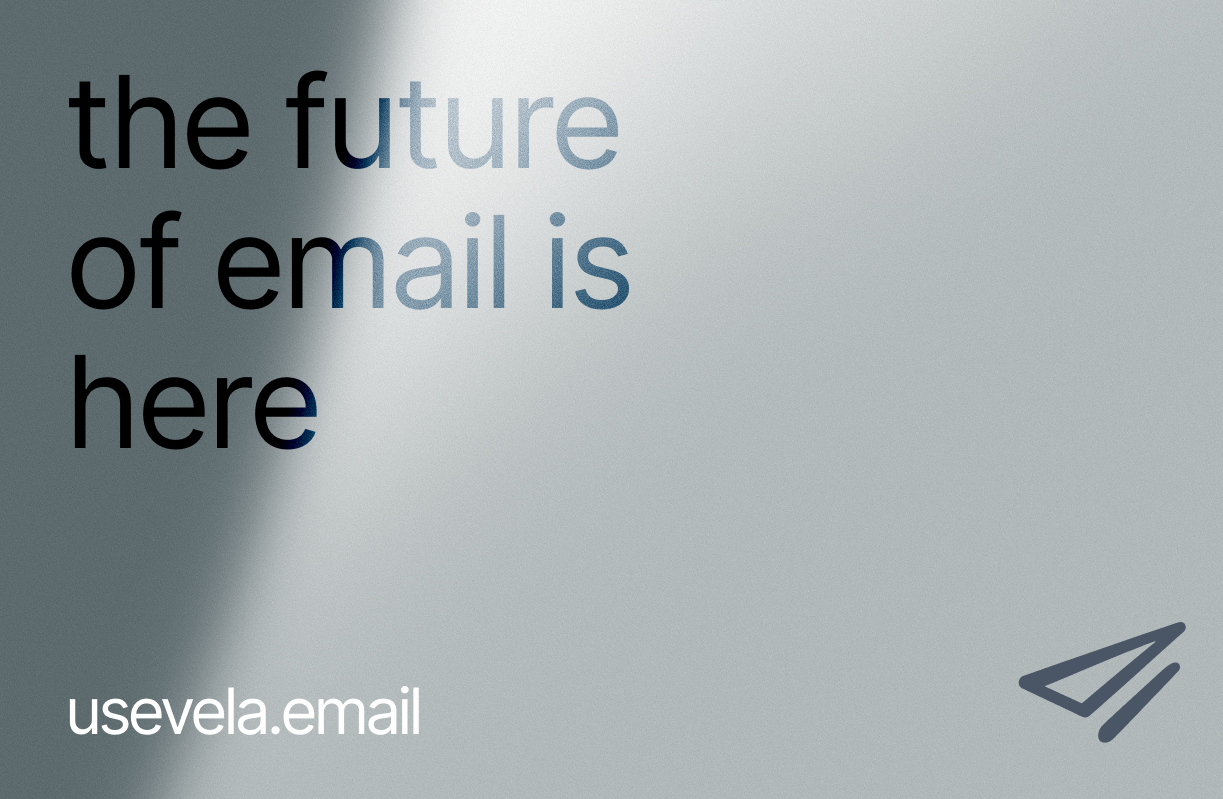
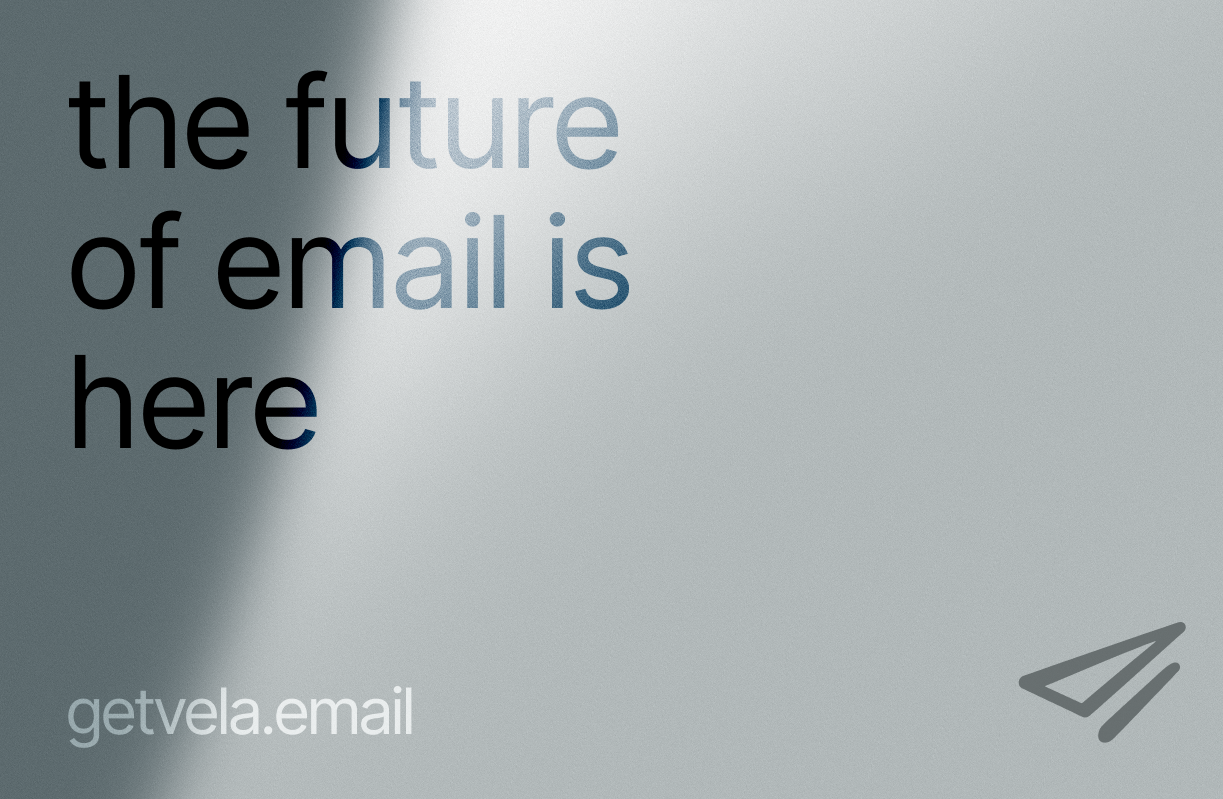
Update landing page aesthetic to metallic light theme to match new OG image

Changed region(s): [[0.0311, 0.8411, 0.3418, 0.9312], [0.8389, 0.781, 0.9632, 0.9312]]

diff --git a/src/app/page.js b/src/app/page.js
@@ -42,108 +42,102 @@ export default function LandingPage() {
   const ctaText = !loading && user ? "Open Inbox" : "Get Started";
 
   return (
-    <div className="min-h-screen bg-[#2b323b] text-white font-[Inter] selection:bg-[#50686c] selection:text-white overflow-x-hidden">
+    <div className="min-h-screen bg-gradient-to-br from-[#f2f4f5] via-[#e5e7e9] to-[#cfd3d6] text-[#1e2a3b] font-[Inter] selection:bg-[#5a768c] selection:text-white overflow-x-hidden relative">
       
       {/* Navbar */}
       <MarketingNavbar />
 
       {/* Hero Section */}
       <section ref={heroRef} className="relative min-h-screen flex flex-col justify-center px-6 max-w-6xl mx-auto">
-        {/* Dynamic gradient that follows mouse */}
+        
+        {/* Dynamic dramatic lighting background */}
         <div className="absolute inset-0 overflow-hidden pointer-events-none -z-10">
+          <div className="absolute top-0 bottom-0 left-[10%] w-[30%] bg-gradient-to-r from-black/[0.12] to-transparent blur-[60px] transform -skew-x-[20deg] origin-top"></div>
+          <div className="absolute top-0 bottom-0 left-[25%] w-[15%] bg-gradient-to-r from-white/60 to-transparent blur-[40px] transform -skew-x-[20deg] origin-top"></div>
+          <div className="absolute top-[-20%] right-[-10%] w-[600px] h-[600px] rounded-full bg-white/40 blur-[120px]"></div>
+          
+          {/* Subtle cursor tracking orb */}
           <div
-            className="absolute w-[600px] h-[600px] rounded-full transition-all duration-[2000ms] ease-out opacity-20"
+            className="absolute w-[600px] h-[600px] rounded-full transition-all duration-[2000ms] ease-out opacity-40 mix-blend-overlay"
             style={{
               left: `${mousePos.x}%`,
               top: `${mousePos.y}%`,
               transform: "translate(-50%, -50%)",
-              background: "radial-gradient(circle, #50686c 0%, transparent 70%)"
+              background: "radial-gradient(circle, #ffffff 0%, transparent 70%)"
             }}
           ></div>
-          <div className="absolute top-[-15%] left-[-5%] w-[40%] h-[40%] rounded-full bg-[#50686c]/15 blur-[120px]"></div>
-          <div className="absolute bottom-[-10%] right-[-5%] w-[35%] h-[35%] rounded-full bg-[#50686c]/10 blur-[120px]"></div>
-          {/* Grid overlay */}
-          <div className="absolute inset-0 bg-[linear-gradient(rgba(255,255,255,0.02)_1px,transparent_1px),linear-gradient(90deg,rgba(255,255,255,0.02)_1px,transparent_1px)] bg-[size:60px_60px] [mask-image:radial-gradient(ellipse_at_50%_50%,black_20%,transparent_70%)]"></div>
         </div>
 
-        <div className="max-w-3xl pt-20">
-          <div className="inline-flex items-center gap-2 px-3.5 py-1.5 rounded-full bg-white/[0.06] border border-white/[0.08] text-xs font-medium text-gray-400 mb-10 animate-fade-in-up backdrop-blur-md">
-            <div className="h-1.5 w-1.5 rounded-full bg-emerald-400 animate-pulse"></div>
-            Now in Beta
-          </div>
+        <div className="max-w-4xl pt-20 relative z-10">
           
-          <h1 className="text-5xl md:text-[5.5rem] font-medium tracking-[-0.03em] text-white leading-[1.05] mb-6 animate-fade-in-up" style={{ animationDelay: '0.1s' }}>
-            The next generation<br />AI email client is here.
+          <h1 className="text-6xl md:text-[8rem] font-medium tracking-[-0.04em] text-[#1e2a3b] leading-[0.95] mb-8 animate-fade-in-up" style={{ animationDelay: '0.1s' }}>
+            the <span className="text-transparent bg-clip-text bg-gradient-to-br from-[#1e2a3b] to-[#7f99b0]">future</span><br />
+            of email <span className="text-transparent bg-clip-text bg-gradient-to-br from-[#1e2a3b] to-[#7f99b0]">is</span><br />
+            here
           </h1>
           
-          <p className="text-lg md:text-xl text-gray-400 max-w-lg leading-relaxed mb-10 animate-fade-in-up font-light" style={{ animationDelay: '0.15s' }}>
-            Vela is the ultimate AI email client spearheading UI and AI in email. Experience the fastest email workflow, built for speed, clarity, and deep focus. Fly through your inbox and reclaim hours of your week.
+          <p className="text-lg md:text-xl text-[#1e2a3b]/60 max-w-lg leading-relaxed mb-10 animate-fade-in-up font-light" style={{ animationDelay: '0.15s' }}>
+            Vela is the ultimate AI email client spearheading UI and AI in email. Experience the fastest email workflow, built for speed, clarity, and deep focus.
           </p>
           
           <div className="flex flex-wrap items-center gap-4 animate-fade-in-up" style={{ animationDelay: '0.2s' }}>
-            <Link href={ctaLink} className="group inline-flex items-center gap-2 text-sm font-medium bg-white text-[#2b323b] px-7 py-3.5 rounded-full hover:bg-gray-100 transition-all duration-200 shadow-lg shadow-black/20">
+            <Link href={ctaLink} className="group inline-flex items-center gap-2 text-sm font-medium bg-[#1e2a3b] text-white px-8 py-4 rounded-full hover:bg-[#2a3a4c] transition-all duration-200 shadow-xl shadow-black/10">
               {ctaText} <ArrowRight size={16} className="group-hover:translate-x-0.5 transition-transform" />
             </Link>
-            <span className="text-xs text-gray-500 font-medium">Free during beta</span>
+            <span className="text-xs text-[#1e2a3b]/50 font-medium">Free during beta</span>
           </div>
         </div>
 
-        {/* Scroll Indicator */}
-        <div className="absolute bottom-10 left-1/2 -translate-x-1/2 flex flex-col items-center gap-2 animate-fade-in-up" style={{ animationDelay: '0.6s' }}>
-          <div className="w-5 h-8 rounded-full border border-white/20 flex justify-center pt-1.5">
-            <div className="w-1 h-2 rounded-full bg-white/40 animate-bounce"></div>
-          </div>
-        </div>
       </section>
 
       {/* Bento Grid Features */}
-      <section className="px-6 pb-32 max-w-5xl mx-auto">
+      <section className="px-6 pb-32 max-w-5xl mx-auto relative z-10">
         <div className="text-center mb-16">
-          <h2 className="text-3xl md:text-4xl font-medium tracking-tight text-white mb-4">Everything you need, nothing you don't.</h2>
-          <p className="text-gray-400 max-w-lg mx-auto text-sm leading-relaxed">Built from the ground up with a focus on speed, keyboard navigation, and AI intelligence.</p>
+          <h2 className="text-3xl md:text-4xl font-medium tracking-tight text-[#1e2a3b] mb-4">Everything you need, nothing you don't.</h2>
+          <p className="text-[#1e2a3b]/60 max-w-lg mx-auto text-sm leading-relaxed">Built from the ground up with a focus on speed, keyboard navigation, and AI intelligence.</p>
         </div>
 
         <div className="grid grid-cols-1 md:grid-cols-2 gap-4">
           {/* Feature 1: Speed - Large Card */}
-          <div className="group relative rounded-2xl bg-white/[0.03] border border-white/[0.06] p-8 overflow-hidden hover:border-white/[0.12] transition-all duration-500 md:row-span-2">
-            <div className="absolute inset-0 bg-gradient-to-br from-[#50686c]/10 to-transparent opacity-0 group-hover:opacity-100 transition-opacity duration-500"></div>
+          <div className="group relative rounded-3xl bg-white/40 border border-white/60 p-8 overflow-hidden hover:bg-white/60 hover:shadow-xl hover:shadow-black/5 transition-all duration-500 md:row-span-2 backdrop-blur-xl">
+            <div className="absolute inset-0 bg-gradient-to-br from-white/20 to-transparent opacity-0 group-hover:opacity-100 transition-opacity duration-500"></div>
             <div className="relative z-10 h-full flex flex-col">
               <div className="flex items-center gap-2 mb-4">
-                <div className="h-8 w-8 rounded-lg bg-yellow-500/10 flex items-center justify-center">
-                  <Lightning size={18} weight="fill" className="text-yellow-500" />
+                <div className="h-8 w-8 rounded-lg bg-yellow-500/20 flex items-center justify-center">
+                  <Lightning size={18} weight="fill" className="text-yellow-600" />
                 </div>
               </div>
-              <h3 className="text-lg font-medium text-white mb-2">Blazing Fast</h3>
-              <p className="text-sm text-gray-400 leading-relaxed mb-8">Built on a modern stack. Every interaction is instantaneous — no loading spinners, no waiting.</p>
+              <h3 className="text-lg font-medium text-[#1e2a3b] mb-2">Blazing Fast</h3>
+              <p className="text-sm text-[#1e2a3b]/60 leading-relaxed mb-8">Built on a modern stack. Every interaction is instantaneous — no loading spinners, no waiting.</p>
               
               {/* Speed Visual */}
               <div className="flex-1 flex items-center justify-center">
                 <div className="relative">
-                  <div className="text-6xl font-mono font-light text-white/10 group-hover:text-white/20 transition-colors duration-500">
-                    0<span className="text-[#50686c]">ms</span>
+                  <div className="text-6xl font-mono font-light text-[#1e2a3b]/10 group-hover:text-[#1e2a3b]/20 transition-colors duration-500">
+                    0<span className="text-[#5a768c]">ms</span>
                   </div>
-                  <div className="absolute -bottom-6 left-0 right-0 text-center text-xs text-gray-600 font-mono">perceived latency</div>
+                  <div className="absolute -bottom-6 left-0 right-0 text-center text-xs text-[#1e2a3b]/40 font-mono">perceived latency</div>
                 </div>
               </div>
             </div>
           </div>
 
           {/* Feature 2: Keyboard */}
-          <div className="group relative rounded-2xl bg-white/[0.03] border border-white/[0.06] p-8 overflow-hidden hover:border-white/[0.12] transition-all duration-500">
-            <div className="absolute inset-0 bg-gradient-to-br from-[#50686c]/10 to-transparent opacity-0 group-hover:opacity-100 transition-opacity duration-500"></div>
+          <div className="group relative rounded-3xl bg-white/40 border border-white/60 p-8 overflow-hidden hover:bg-white/60 hover:shadow-xl hover:shadow-black/5 transition-all duration-500 backdrop-blur-xl">
+            <div className="absolute inset-0 bg-gradient-to-br from-white/20 to-transparent opacity-0 group-hover:opacity-100 transition-opacity duration-500"></div>
             <div className="relative z-10">
               <div className="flex items-center gap-2 mb-4">
-                <div className="h-8 w-8 rounded-lg bg-blue-500/10 flex items-center justify-center">
-                  <Command size={18} weight="bold" className="text-blue-400" />
+                <div className="h-8 w-8 rounded-lg bg-blue-500/20 flex items-center justify-center">
+                  <Command size={18} weight="bold" className="text-blue-600" />
                 </div>
               </div>
-              <h3 className="text-lg font-medium text-white mb-2">Keyboard First</h3>
-              <p className="text-sm text-gray-400 leading-relaxed mb-6">Navigate your entire inbox without ever touching your mouse. Every action has a shortcut.</p>
+              <h3 className="text-lg font-medium text-[#1e2a3b] mb-2">Keyboard First</h3>
+              <p className="text-sm text-[#1e2a3b]/60 leading-relaxed mb-6">Navigate your entire inbox without ever touching your mouse. Every action has a shortcut.</p>
               
               {/* Keyboard Keys Visual */}
               <div className="flex items-center gap-1.5 justify-center">
                 {['J', 'K', 'E', 'R', '#'].map((key) => (
-                  <div key={key} className="h-9 w-9 rounded-lg bg-white/[0.06] border border-white/[0.1] flex items-center justify-center text-xs font-mono text-gray-400 group-hover:border-white/[0.16] transition-all duration-300">
+                  <div key={key} className="h-9 w-9 rounded-lg bg-white/50 border border-white/80 flex items-center justify-center text-xs font-mono text-[#1e2a3b]/60 group-hover:border-white transition-all duration-300 shadow-sm">
                     {key}
                   </div>
                 ))}
@@ -152,125 +146,38 @@ export default function LandingPage() {
           </div>
 
           {/* Feature 3: AI */}
-          <div className="group relative rounded-2xl bg-white/[0.03] border border-white/[0.06] p-8 overflow-hidden hover:border-white/[0.12] transition-all duration-500">
-            <div className="absolute inset-0 bg-gradient-to-br from-purple-500/5 to-transparent opacity-0 group-hover:opacity-100 transition-opacity duration-500"></div>
+          <div className="group relative rounded-3xl bg-white/40 border border-white/60 p-8 overflow-hidden hover:bg-white/60 hover:shadow-xl hover:shadow-black/5 transition-all duration-500 backdrop-blur-xl">
+            <div className="absolute inset-0 bg-gradient-to-br from-purple-500/10 to-transparent opacity-0 group-hover:opacity-100 transition-opacity duration-500"></div>
             <div className="relative z-10">
               <div className="flex items-center gap-2 mb-4">
-                <div className="h-8 w-8 rounded-lg bg-purple-500/10 flex items-center justify-center">
-                  <Sparkle size={18} weight="fill" className="text-purple-400" />
+                <div className="h-8 w-8 rounded-lg bg-purple-500/20 flex items-center justify-center">
+                  <Sparkle size={18} weight="fill" className="text-purple-600" />
                 </div>
               </div>
-              <h3 className="text-lg font-medium text-white mb-2">AI Intelligence</h3>
-              <p className="text-sm text-gray-400 leading-relaxed mb-6">Instantly extract the core message from long threads. Draft replies in seconds with context-aware AI.</p>
+              <h3 className="text-lg font-medium text-[#1e2a3b] mb-2">AI Intelligence</h3>
+              <p className="text-sm text-[#1e2a3b]/60 leading-relaxed mb-6">Instantly extract the core message from long threads. Draft replies in seconds with context-aware AI.</p>
               
               {/* AI Visual */}
-              <div className="flex items-center gap-3 px-4 py-3 rounded-xl bg-white/[0.04] border border-white/[0.06]">
-                <Sparkle size={16} weight="fill" className="text-purple-400 shrink-0" />
+              <div className="flex items-center gap-3 px-4 py-3 rounded-xl bg-white/50 border border-white/80 shadow-sm">
+                <Sparkle size={16} weight="fill" className="text-purple-600 shrink-0" />
                 <div className="flex flex-col gap-1.5 flex-1">
-                  <div className="h-1.5 w-full bg-white/10 rounded-full"></div>
-                  <div className="h-1.5 w-3/4 bg-white/10 rounded-full"></div>
+                  <div className="h-1.5 w-full bg-[#1e2a3b]/10 rounded-full"></div>
+                  <div className="h-1.5 w-3/4 bg-[#1e2a3b]/10 rounded-full"></div>
                 </div>
               </div>
-            </div>
-          </div>
-
-          {/* Feature 4: Search */}
-          <div className="group relative rounded-2xl bg-white/[0.03] border border-white/[0.06] p-8 overflow-hidden hover:border-white/[0.12] transition-all duration-500">
-            <div className="absolute inset-0 bg-gradient-to-br from-[#50686c]/10 to-transparent opacity-0 group-hover:opacity-100 transition-opacity duration-500"></div>
-            <div className="relative z-10">
-              <div className="flex items-center gap-2 mb-4">
-                <div className="h-8 w-8 rounded-lg bg-emerald-500/10 flex items-center justify-center">
-                  <MagnifyingGlass size={18} weight="bold" className="text-emerald-400" />
-                </div>
-              </div>
-              <h3 className="text-lg font-medium text-white mb-2">Deep Search</h3>
-              <p className="text-sm text-gray-400 leading-relaxed mb-6">Find exactly what you're looking for instantly. Search across subjects, senders, and content.</p>
-              
-              {/* Search Visual */}
-              <div className="flex items-center gap-3 px-4 py-3 rounded-xl bg-white/[0.04] border border-white/[0.06]">
-                <MagnifyingGlass size={16} className="text-gray-500 shrink-0" />
-                <div className="h-4 w-[2px] bg-white/30 animate-pulse"></div>
-              </div>
-            </div>
-          </div>
-
-          {/* Feature 5: Privacy */}
-          <div className="group relative rounded-2xl bg-white/[0.03] border border-white/[0.06] p-8 overflow-hidden hover:border-white/[0.12] transition-all duration-500">
-            <div className="absolute inset-0 bg-gradient-to-br from-[#50686c]/10 to-transparent opacity-0 group-hover:opacity-100 transition-opacity duration-500"></div>
-            <div className="relative z-10">
-              <div className="flex items-center gap-2 mb-4">
-                <div className="h-8 w-8 rounded-lg bg-teal-500/10 flex items-center justify-center">
-                  <ShieldCheck size={18} weight="fill" className="text-teal-400" />
-                </div>
-              </div>
-              <h3 className="text-lg font-medium text-white mb-2">Private by Default</h3>
-              <p className="text-sm text-gray-400 leading-relaxed">Your data stays yours. We never sell your information or train models on your emails.</p>
-            </div>
-          </div>
-        </div>
-      </section>
-
-      {/* Stats Section */}
-      <section className="px-6 py-24 border-t border-white/[0.04]">
-        <div className="max-w-5xl mx-auto grid grid-cols-2 md:grid-cols-4 gap-8">
-          {[
-            { value: "< 100ms", label: "Response time" },
-            { value: "100%", label: "Keyboard navigable" },
-            { value: "10x", label: "Faster than Gmail" },
-            { value: "0", label: "Trackers allowed" },
-          ].map((stat, i) => (
-            <div key={i} className="text-center">
-              <div className="text-2xl md:text-3xl font-medium text-white mb-1 tracking-tight">{stat.value}</div>
-              <div className="text-xs text-gray-500 font-medium uppercase tracking-wider">{stat.label}</div>
-            </div>
-          ))}
-        </div>
-      </section>
-
-      {/* FAQ / SEO Section */}
-      <section className="px-6 py-24 bg-white/[0.02]">
-        <div className="max-w-4xl mx-auto">
-          <div className="text-center mb-16">
-            <h2 className="text-3xl md:text-4xl font-medium tracking-tight text-white mb-4">Frequently Asked Questions</h2>
-            <p className="text-gray-400 max-w-lg mx-auto text-sm leading-relaxed">Learn more about how Vela compares to other email clients and productivity tools.</p>
-          </div>
-          
-          <div className="space-y-8">
-            <div className="bg-white/[0.03] border border-white/[0.06] rounded-2xl p-6 md:p-8">
-              <h3 className="text-xl font-medium text-white mb-3">Why is Vela the best AI email client for my workflow?</h3>
-              <p className="text-gray-400 leading-relaxed text-sm">
-                Vela is a modern AI email client that connects securely to your existing Gmail account. You keep your current email address while benefiting from Vela's blazing fast interface and AI tools. If you are looking for tools similar to Vela, check out our comprehensive <Link href="/resources/vs-the-world" className="text-emerald-400 hover:underline">Vela vs The World</Link> comparison to see how we stack up against other modern clients.
-              </p>
-            </div>
-            
-            <div className="bg-white/[0.03] border border-white/[0.06] rounded-2xl p-6 md:p-8">
-              <h3 className="text-xl font-medium text-white mb-3">How does the pricing work for Vela?</h3>
-              <p className="text-gray-400 leading-relaxed text-sm">
-                Vela is free to use during our beta period. We offer a generous Free tier with limited monthly usage. For power users needing more AI assistance, we offer a Pro tier with up to 30x higher usage than free. You can view all the details on our <Link href="/pricing" className="text-emerald-400 hover:underline">Pricing page</Link>.
-              </p>
-            </div>
-            
-            <div className="bg-white/[0.03] border border-white/[0.06] rounded-2xl p-6 md:p-8">
-              <h3 className="text-xl font-medium text-white mb-3">How does Vela protect my privacy?</h3>
-              <p className="text-gray-400 leading-relaxed text-sm">
-                Vela is built with privacy by design. We do not sell your data or use it to train AI models. Unlike legacy email providers, there are zero tracking scripts and zero ads in your inbox. Our backend infrastructure is powered securely by open-source technologies like Appwrite, keeping your workflow safe and private.
-              </p>
             </div>
           </div>
         </div>
       </section>
 
       {/* CTA Section */}
-      <section className="py-32 px-6 text-center relative overflow-hidden">
-        <div className="absolute inset-0 pointer-events-none">
-          <div className="absolute top-1/2 left-1/2 -translate-x-1/2 -translate-y-1/2 w-[500px] h-[500px] rounded-full bg-[#50686c]/10 blur-[120px]"></div>
-        </div>
-        <div className="relative z-10">
-          <h2 className="text-4xl md:text-5xl font-medium text-white mb-4 tracking-tight">Ready to try Vela?</h2>
-          <p className="text-gray-400 mb-10 max-w-md mx-auto text-sm leading-relaxed">
+      <section className="py-32 px-6 text-center relative overflow-hidden z-10">
+        <div className="relative z-10 bg-white/40 border border-white/60 backdrop-blur-2xl rounded-[3rem] max-w-4xl mx-auto p-16 shadow-2xl shadow-black/5">
+          <h2 className="text-4xl md:text-5xl font-medium text-[#1e2a3b] mb-4 tracking-tight">Ready to try Vela?</h2>
+          <p className="text-[#1e2a3b]/60 mb-10 max-w-md mx-auto text-sm leading-relaxed">
             Join the beta and experience email the way it should be.
           </p>
-          <Link href={ctaLink} className="group inline-flex items-center gap-2 text-sm font-medium bg-white text-[#2b323b] px-8 py-4 rounded-full hover:bg-gray-100 transition-all duration-200 shadow-lg shadow-black/20">
+          <Link href={ctaLink} className="group inline-flex items-center gap-2 text-sm font-medium bg-[#1e2a3b] text-white px-8 py-4 rounded-full hover:bg-[#2a3a4c] transition-all duration-200 shadow-xl shadow-black/10">
             {ctaText} <ArrowRight size={16} className="group-hover:translate-x-0.5 transition-transform" />
           </Link>
         </div>

diff --git a/src/components/MarketingNavbar.js b/src/components/MarketingNavbar.js
@@ -36,32 +36,32 @@ export default function MarketingNavbar() {
   const ctaText = !loading && user ? "Open Inbox" : "Get Started";
 
   return (
-    <nav className={`fixed top-0 w-full z-50 transition-all duration-500 ${isScrolled ? "bg-[#2b323b]/90 backdrop-blur-xl border-b border-white/[0.06] py-3" : "bg-transparent py-5"}`}>
+    <nav className={`fixed top-0 w-full z-50 transition-all duration-500 ${isScrolled ? "bg-white/40 backdrop-blur-xl border-b border-black/[0.04] py-3" : "bg-transparent py-5"}`}>
       <div className="max-w-6xl mx-auto px-6 flex items-center justify-between">
         <div className="flex items-center gap-6">
-          <Link href="/" className="flex items-center gap-2.5 font-medium text-base tracking-tight text-white">
+          <Link href="/" className="flex items-center gap-2.5 font-medium text-base tracking-tight text-[#1e2a3b]">
             <img src="/logo.png" alt="Vela Logo" className="h-7 w-auto rounded-md shadow-sm" />
             <span className="font-semibold">Vela</span>
           </Link>
           
           {/* Navigation Links */}
           <div className="hidden md:flex items-center gap-1 mt-0.5 ml-4">
-            <Link href="/pricing" className="text-sm text-gray-300 hover:text-white px-3 py-1.5 rounded-md hover:bg-white/[0.05] transition">Pricing</Link>
+            <Link href="/pricing" className="text-sm text-[#1e2a3b]/60 hover:text-[#1e2a3b] px-3 py-1.5 rounded-md hover:bg-black/[0.05] transition">Pricing</Link>
             
             <div className="relative" ref={dropdownRef}>
               <button 
                 onClick={() => setIsResourcesOpen(!isResourcesOpen)}
-                className="text-sm text-gray-300 hover:text-white px-3 py-1.5 rounded-md hover:bg-white/[0.05] transition flex items-center gap-1"
+                className="text-sm text-[#1e2a3b]/60 hover:text-[#1e2a3b] px-3 py-1.5 rounded-md hover:bg-black/[0.05] transition flex items-center gap-1"
               >
                 Resources <CaretDown size={12} weight="bold" className={`transition-transform duration-200 ${isResourcesOpen ? 'rotate-180' : ''}`} />
               </button>
               
               {/* Dropdown Menu */}
               {isResourcesOpen && (
-                <div className="absolute top-full left-0 mt-2 w-48 bg-[#2b323b] border border-white/[0.08] shadow-xl rounded-xl py-1.5 overflow-hidden animate-fade-in-up origin-top-left z-50">
+                <div className="absolute top-full left-0 mt-2 w-48 bg-white/90 border border-black/[0.08] backdrop-blur-xl shadow-xl rounded-xl py-1.5 overflow-hidden animate-fade-in-up origin-top-left z-50">
                   <Link 
                     href="/resources/vs-the-world" 
-                    className="block px-4 py-2.5 text-sm text-gray-300 hover:text-white hover:bg-white/[0.05] transition"
+                    className="block px-4 py-2.5 text-sm text-[#1e2a3b]/70 hover:text-[#1e2a3b] hover:bg-black/[0.05] transition"
                     onClick={() => setIsResourcesOpen(false)}
                   >
                     Vela vs The World
@@ -73,7 +73,7 @@ export default function MarketingNavbar() {
         </div>
 
         <div className="flex items-center gap-3">
-          <Link href={ctaLink} className="text-xs font-medium bg-white text-[#2b323b] px-5 py-2 rounded-full hover:bg-gray-100 transition-all duration-200 shadow-sm">
+          <Link href={ctaLink} className="text-xs font-medium bg-[#1e2a3b] text-white px-5 py-2 rounded-full hover:bg-[#2a3a4c] transition-all duration-200 shadow-sm">
             {ctaText}
           </Link>
         </div>

diff --git a/src/components/MarketingFooter.js b/src/components/MarketingFooter.js
@@ -4,15 +4,15 @@ import Link from "next/link";
 
 export default function MarketingFooter() {
   return (
-    <footer className="border-t border-white/[0.04] py-12 text-sm text-gray-500 bg-[#2b323b]">
+    <footer className="border-t border-black/[0.04] py-12 text-sm text-[#1e2a3b]/50 bg-transparent">
       <div className="max-w-6xl mx-auto px-6 flex flex-col md:flex-row justify-between items-center gap-6">
-        <div className="flex items-center gap-2 font-medium text-gray-400">
-          <img src="/logo.png" alt="Vela Logo" className="h-4 w-auto rounded-sm opacity-80" />
+        <div className="flex items-center gap-2 font-medium text-[#1e2a3b]/60">
+          <img src="/logo.png" alt="Vela Logo" className="h-4 w-auto rounded-sm opacity-60" />
           Vela
         </div>
         <div className="flex items-center gap-6">
-          <Link href="/privacy" className="hover:text-gray-300 transition">Privacy Policy</Link>
-          <Link href="/terms" className="hover:text-gray-300 transition">Terms of Service</Link>
+          <Link href="/privacy" className="hover:text-[#1e2a3b] transition">Privacy Policy</Link>
+          <Link href="/terms" className="hover:text-[#1e2a3b] transition">Terms of Service</Link>
         </div>
       </div>
     </footer>